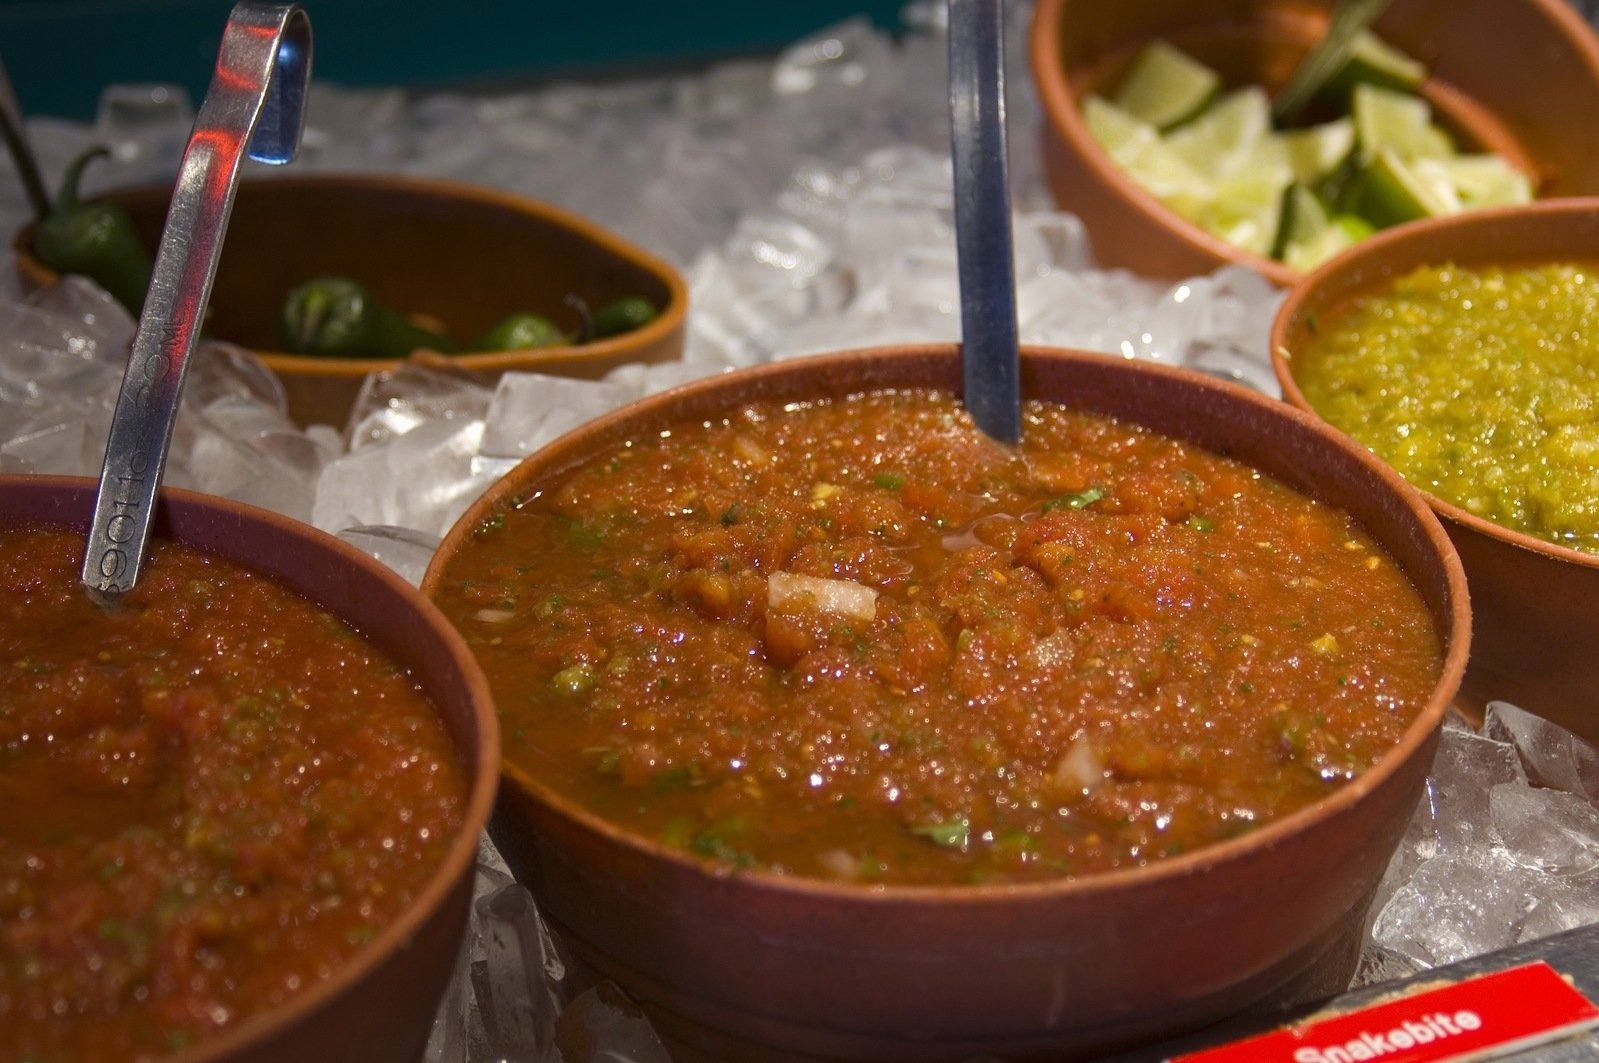
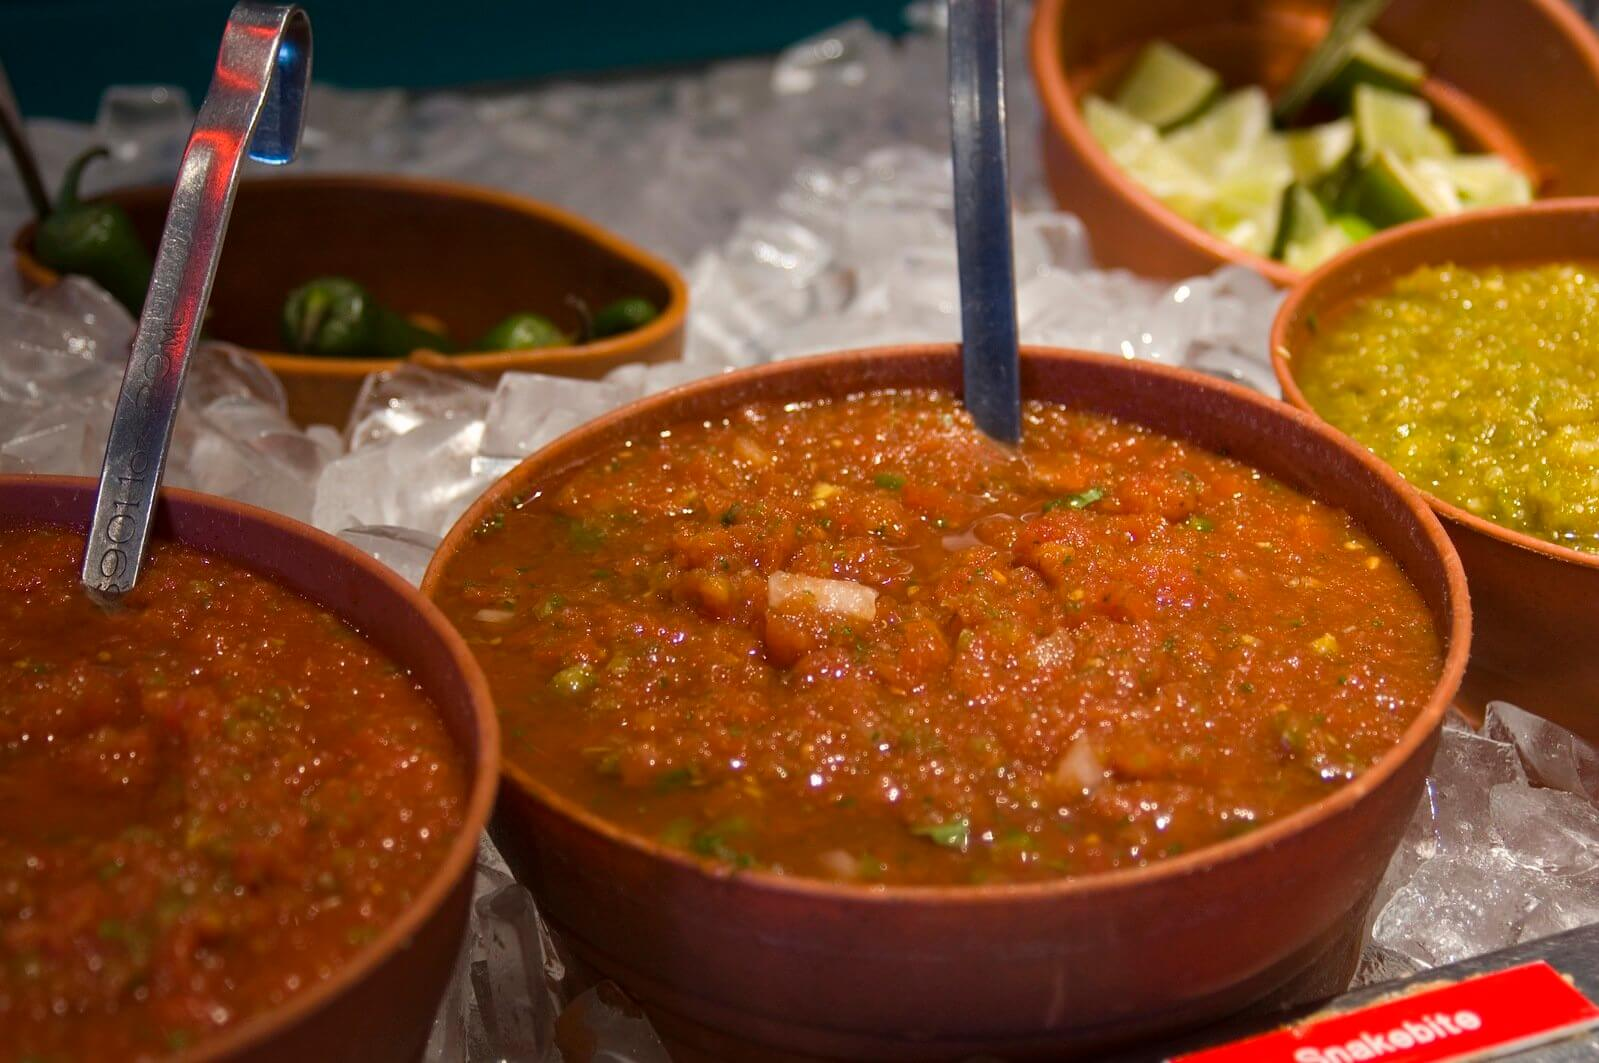
compress images for better speed total build 2.8mb fix mobile menu bar and menu content

diff --git a/index.html b/index.html
@@ -27,29 +27,6 @@
     <link rel="shortcut icon" href="favicon.ico" type="image/x-icon">
     <link rel="icon" href="favicon.ico" type="image/x-icon">
 
-    <!-- <link rel="stylesheet" href="css/styles.css?v=1.0"> -->
-    <!-- css and javascript -->
-    <link rel="stylesheet" href="style.css">
-    <script src="data.js"></script>
-    <script src="https://code.jquery.com/jquery-3.5.1.slim.min.js" integrity="sha256-4+XzXVhsDmqanXGHaHvgh1gMQKX40OUvDEBTu8JcmNs=" crossorigin="anonymous"></script>
-    <!-- boostrap -->
-    <link rel="stylesheet" href="https://maxcdn.bootstrapcdn.com/bootstrap/4.0.0/css/bootstrap.min.css" integrity="sha384-Gn5384xqQ1aoWXA+058RXPxPg6fy4IWvTNh0E263XmFcJlSAwiGgFAW/dAiS6JXm" crossorigin="anonymous">
-    <script src="https://code.jquery.com/jquery-3.2.1.slim.min.js" integrity="sha384-KJ3o2DKtIkvYIK3UENzmM7KCkRr/rE9/Qpg6aAZGJwFDMVNA/GpGFF93hXpG5KkN" crossorigin="anonymous"></script>
-    <script src="https://cdnjs.cloudflare.com/ajax/libs/popper.js/1.12.9/umd/popper.min.js" integrity="sha384-ApNbgh9B+Y1QKtv3Rn7W3mgPxhU9K/ScQsAP7hUibX39j7fakFPskvXusvfa0b4Q" crossorigin="anonymous"></script>
-    <script src="https://maxcdn.bootstrapcdn.com/bootstrap/4.0.0/js/bootstrap.min.js" integrity="sha384-JZR6Spejh4U02d8jOt6vLEHfe/JQGiRRSQQxSfFWpi1MquVdAyjUar5+76PVCmYl" crossorigin="anonymous"></script>
-    <!-- material icons -->
-    <link rel="stylesheet" href="https://fonts.googleapis.com/icon?family=Material+Icons">
-    <!-- handlebars -->
-    <script src="https://cdnjs.cloudflare.com/ajax/libs/handlebars.js/4.7.6/handlebars.min.js" integrity="sha512-zT3zHcFYbQwjHdKjCu6OMmETx8fJA9S7E6W7kBeFxultf75OPTYUJigEKX58qgyQMi1m1EgenfjMXlRZG8BXaw==" crossorigin="anonymous"></script>
-    <!-- main  -->
-    <script src="main.js"></script>
-
-    <style>
-        #content{
-            scroll-behavior: smooth; 
-        }
-    </style>
-
 </head>
 <body id="root">
     <div class="loading" id="loading">
@@ -63,13 +40,13 @@
             <!-- z-index 100 -->
             <div class="backdrop-background-mobile"></div>
             <!-- z-index 101 -->
-            <div class="d-xs-block d-sm-block d-md-block d-lg-none d-xl-none col-12 text-light mobile-bar">
+            <div class="d-xs-block d-sm-block d-md-block d-lg-none d-xl-none col-12 text-light mobile-bar position-fixed">
                 <!-- mobile menu -->
                 <div class="pl-3 height-inherit">
                     <div class="row no-gutters height-inherit">
                         <div class="col-10 height-inherit p-2">
                             <a href="index.html">
-                                <img  height="100%" width="auto" src="ltc_logo.png">
+                                <img height="100%" width="auto" src="ltc_logo.png">
                             </a>
                         </div>
                         <div class="col-2 text-center height-inherit">
@@ -125,7 +102,7 @@
                 <div class="image-container d-flex justify-content-center align-items-center mb-md-5 mb-lg-5">
                     <div class="p-3">
                         <a href="index.html">
-                            <img class="responsive logo-responsive"  width="100%" src="ltc_logo.png">
+                            <img class="responsive logo-responsive" width="100%" src="ltc_logo.png">
                         </a>
                     </div>
                 </div>
@@ -160,7 +137,8 @@
                     <div class="p-5">
                         <h1>House of the authentic Mexican taste</h1>
                         <br>
-                        <p>Come taste a selection of the most authentic mexican dishes with the best selection of 
+                        <p>
+                            Come taste a selection of the most authentic mexican dishes with the best selection of
                             Tequilas and prepared drinks.
 
                             Come and let your taste buds get satisfied with our best dishes.
@@ -183,28 +161,28 @@
                         <div class="sticky-filter">
                             <ul class="nav nav-tabs">
                                 <li class="nav-item">
-                                  <a class="nav-link" href="#appetizer">
-                                    <span class="material-icons icon">
-                                        emoji_food_beverage
-                                    </span>
-                                    <span class="tab-selector">Appetizer</span>
-                                  </a>
+                                    <a class="nav-link" href="#appetizer">
+                                        <span class="material-icons icon">
+                                            emoji_food_beverage
+                                        </span>
+                                        <span class="tab-selector">Appetizer</span>
+                                    </a>
                                 </li>
                                 <li class="nav-item">
-                                  <a class="nav-link" href="#side">
-                                    <span class="material-icons icon">
-                                        local_dining
-                                    </span>
-                                    <span class="tab-selector">Side</span>
-                                  </a>
+                                    <a class="nav-link" href="#side">
+                                        <span class="material-icons icon">
+                                            local_dining
+                                        </span>
+                                        <span class="tab-selector">Side</span>
+                                    </a>
                                 </li>
                                 <li class="nav-item">
-                                  <a class="nav-link" href="#kids">
-                                    <span class="material-icons icon">
-                                        local_bar
-                                    </span>
-                                    <span class="tab-selector">Kids</span>
-                                  </a>
+                                    <a class="nav-link" href="#kids">
+                                        <span class="material-icons icon">
+                                            local_bar
+                                        </span>
+                                        <span class="tab-selector">Kids</span>
+                                    </a>
                                 </li>
                                 <li class="nav-item">
                                     <a class="nav-link" href="#fajitas">
@@ -212,7 +190,7 @@
                                             local_bar
                                         </span>
                                         <span class="tab-selector">Main</span>
-                                      </a>
+                                    </a>
                                 </li>
                                 <li class="nav-item">
                                     <a class="nav-link" href="#beverages">
@@ -238,7 +216,7 @@
                                         <span class="tab-selector">Desserts</span>
                                     </a>
                                 </li>
-                              </ul>
+                            </ul>
                         </div>
                         <br>
                         <!-- appetizers -->
@@ -342,3 +320,26 @@
     </div>
 </body>
 </html>
+
+<!-- <link rel="stylesheet" href="css/styles.css?v=1.0"> -->
+<!-- css and javascript -->
+<link rel="stylesheet" href="style.css">
+<script src="data.js"></script>
+<script src="https://code.jquery.com/jquery-3.5.1.slim.min.js" integrity="sha256-4+XzXVhsDmqanXGHaHvgh1gMQKX40OUvDEBTu8JcmNs=" crossorigin="anonymous"></script>
+<!-- boostrap -->
+<link rel="stylesheet" href="https://maxcdn.bootstrapcdn.com/bootstrap/4.0.0/css/bootstrap.min.css" integrity="sha384-Gn5384xqQ1aoWXA+058RXPxPg6fy4IWvTNh0E263XmFcJlSAwiGgFAW/dAiS6JXm" crossorigin="anonymous">
+<script src="https://code.jquery.com/jquery-3.2.1.slim.min.js" integrity="sha384-KJ3o2DKtIkvYIK3UENzmM7KCkRr/rE9/Qpg6aAZGJwFDMVNA/GpGFF93hXpG5KkN" crossorigin="anonymous"></script>
+<script src="https://cdnjs.cloudflare.com/ajax/libs/popper.js/1.12.9/umd/popper.min.js" integrity="sha384-ApNbgh9B+Y1QKtv3Rn7W3mgPxhU9K/ScQsAP7hUibX39j7fakFPskvXusvfa0b4Q" crossorigin="anonymous"></script>
+<script src="https://maxcdn.bootstrapcdn.com/bootstrap/4.0.0/js/bootstrap.min.js" integrity="sha384-JZR6Spejh4U02d8jOt6vLEHfe/JQGiRRSQQxSfFWpi1MquVdAyjUar5+76PVCmYl" crossorigin="anonymous"></script>
+<!-- material icons -->
+<link rel="stylesheet" href="https://fonts.googleapis.com/icon?family=Material+Icons">
+<!-- handlebars -->
+<script src="https://cdnjs.cloudflare.com/ajax/libs/handlebars.js/4.7.6/handlebars.min.js" integrity="sha512-zT3zHcFYbQwjHdKjCu6OMmETx8fJA9S7E6W7kBeFxultf75OPTYUJigEKX58qgyQMi1m1EgenfjMXlRZG8BXaw==" crossorigin="anonymous"></script>
+<!-- main  -->
+<script src="main.js"></script>
+
+<style>
+    #content {
+        scroll-behavior: smooth;
+    }
+</style>

diff --git a/style.css b/style.css
@@ -215,23 +215,12 @@ color: initial;
     background-color: rgb(201, 30, 0);
     height: 12vh;
     z-index: 99;
-    position: fixed;
+    
     top: 0;
     left: 0;
     box-shadow: black 0px 3px 30px 2px;
 }
 
-.mobile-menu-content {
-    height: 100vh;
-    background-color: rgb(201, 30, 0);
-    position: fixed;
-    z-index: 101;
-    width: 100%;
-    height: 100%;
-    top: 0;
-    left: 0;
-    font-size: 2.5vh;
-}
 
 .mobile-bar-icon {
     background-color: transparent;
@@ -252,8 +241,18 @@ color: initial;
 }
 
 .mobile-menu-content {
+    height: 100vh;
+    background-color: rgb(201, 30, 0);
+    position: fixed !important;
+    z-index: 101;
+    width: 100%;
+    height: 100%;
+    top: 0;
+    left: 0;
+    font-size: 2.5vh;
     left: -1000px;
     transition: left 0.3s linear;
+    top: 0;
 }
 
     .mobile-menu-content.active {
@@ -274,10 +273,10 @@ color: initial;
     .sticky-filter {
         top: 12vh;
     }
+}
 
-    .contain-svg {
-        width: 100%;
-        height: 100%;
-        object-fit: contain;
-    }
+.contain-svg {
+    width: 100%;
+    height: 100%;
+    object-fit: contain;
 }

diff --git a/main.js b/main.js
@@ -68,7 +68,7 @@ class Products {
         return `
         {{#each items}}
             <div class="col-xs-6 col-sm-6 col-md-6 col-lg-4 col-xl-3 product" style="position:relative">
-                <img class="" style="object-fit: fill"  width="100%" height="100%" src="{{img-path}}">
+                <img class="" style="object-fit: fill"  width="100%" height="100%" src="{{img-path}}" loading="lazy">
                 <div class="info-container" style="display:grid;grid-template-columns:auto;grid-template-rows:7vh 20vh 6vh; position:absolute;z-index:10;top:0;left:0;">
                     <div style="grid-column: 1/2;">
                         <div class="p-2 font-weight-bold">
